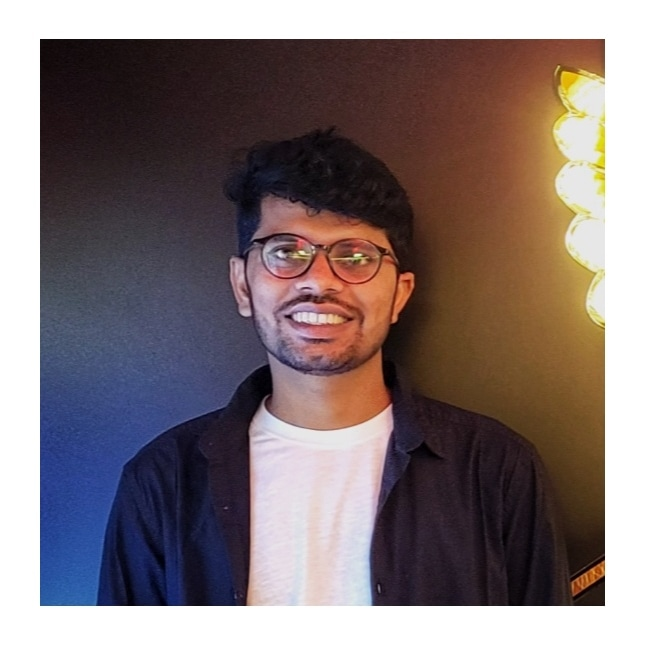
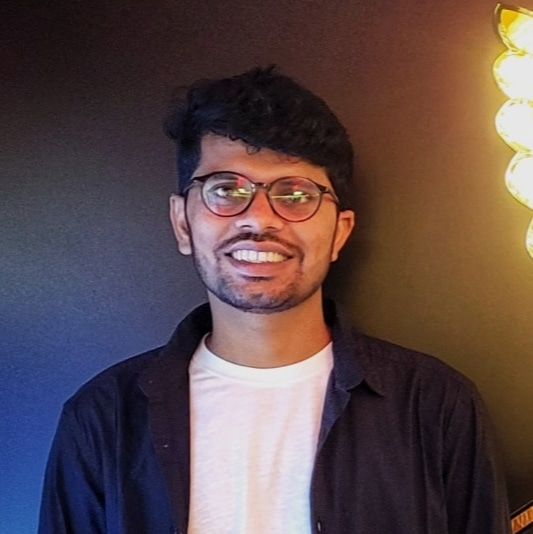
added new Images

diff --git a/index.html b/index.html
@@ -91,7 +91,7 @@
    	</div> <!-- /intro-content --> 
 
    	<ul class="intro-social">        
-         <li><a href="https://www.facebook.com/people/Pintu-Kumar-Yadav/100014517541467", target="_blank"><i class="fa fa-facebook"></i></a></li>
+         <li><a href="https://github.com/pkyadav73199", target="_blank"><i class="fa fa-github"></i></a></li>
          
 		 <li><a href="https://www.linkedin.com/in/pintu-iitbhu/", target="_blank"><i class="fa fa-linkedin"></i></a></li>
 		 <!-- <li><a href="https://www.linkedin.com/in/pintu-iitbhu/", target="_blank"><i class="fab fa-twitter"></i></a></li> -->
@@ -123,8 +123,7 @@
 					<br><br>
 					I received my B.Tech. from the Indian Institute of Technology (BHU) Varanasi, where I pursued a degree in mining engineering. During my graduate studies, I also explored various fields, including software development, computer vision, machine learning, and deep learning , and I worked on some pertinent projects in these areas.
 					<br><br>
-					In my freshman year, i was Co-coorinator of AirShow at Technex, the annual techno-management fest of IIT(BHU). I was also an active member of Aero Modelling Club at IIT(BHU). In my sophomore year, i was the Event Executive of Drone-Tech Event at Technex. I am also passionate about travelling and reading.</p>
-   			</div>   			
+					I co-ordinated AirShow at Technex, IIT's yearly techno-management festival, during my first year (BHU). Also, I participated actively in IIT's Aero Modelling Club (BHU). I oversaw the Technex Drone-Tech Event during my sophomore year. I also enjoy reading and travelling a lot.   			</div>
 
    		</div>   		
    	</div> <!-- /section-intro -->
